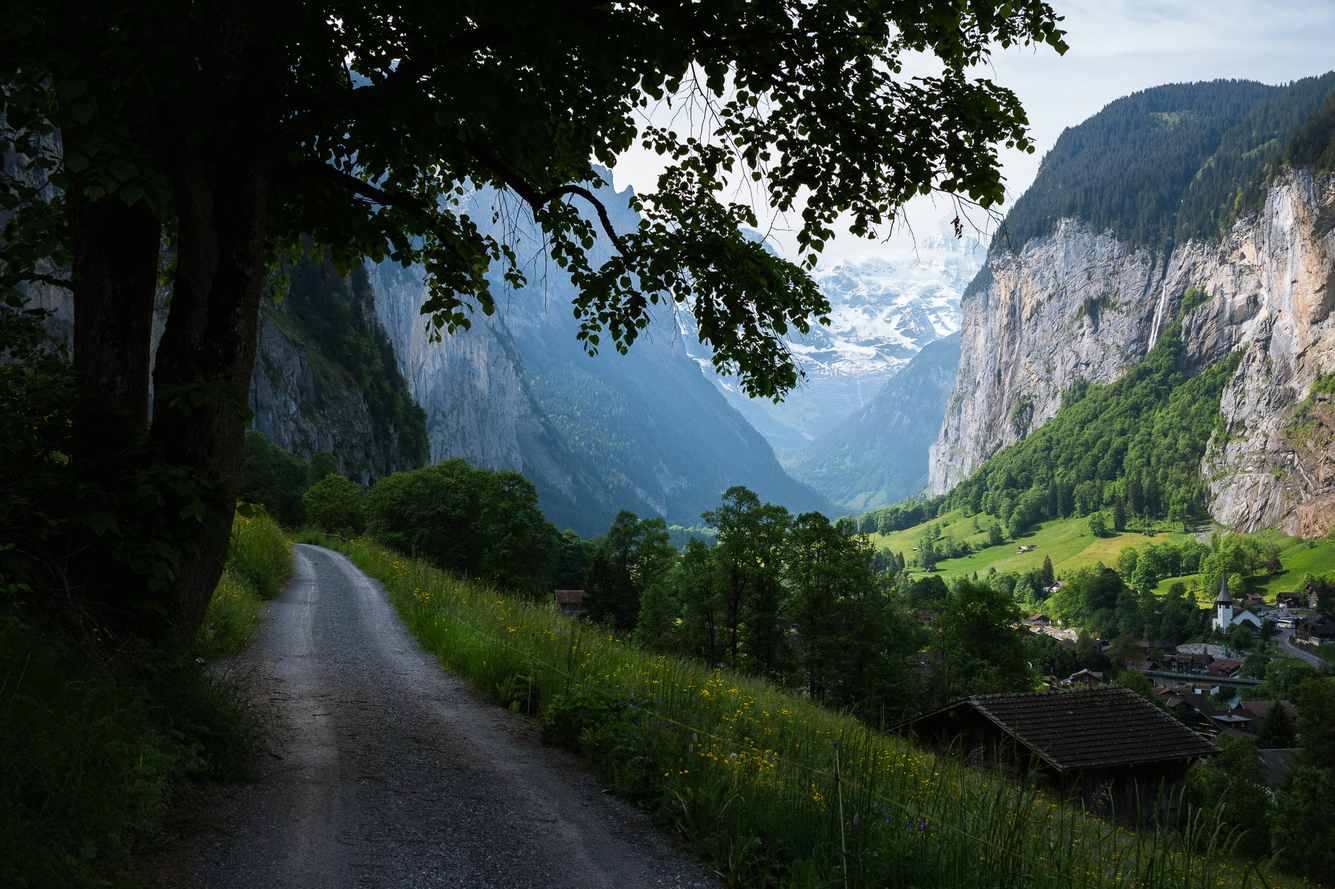
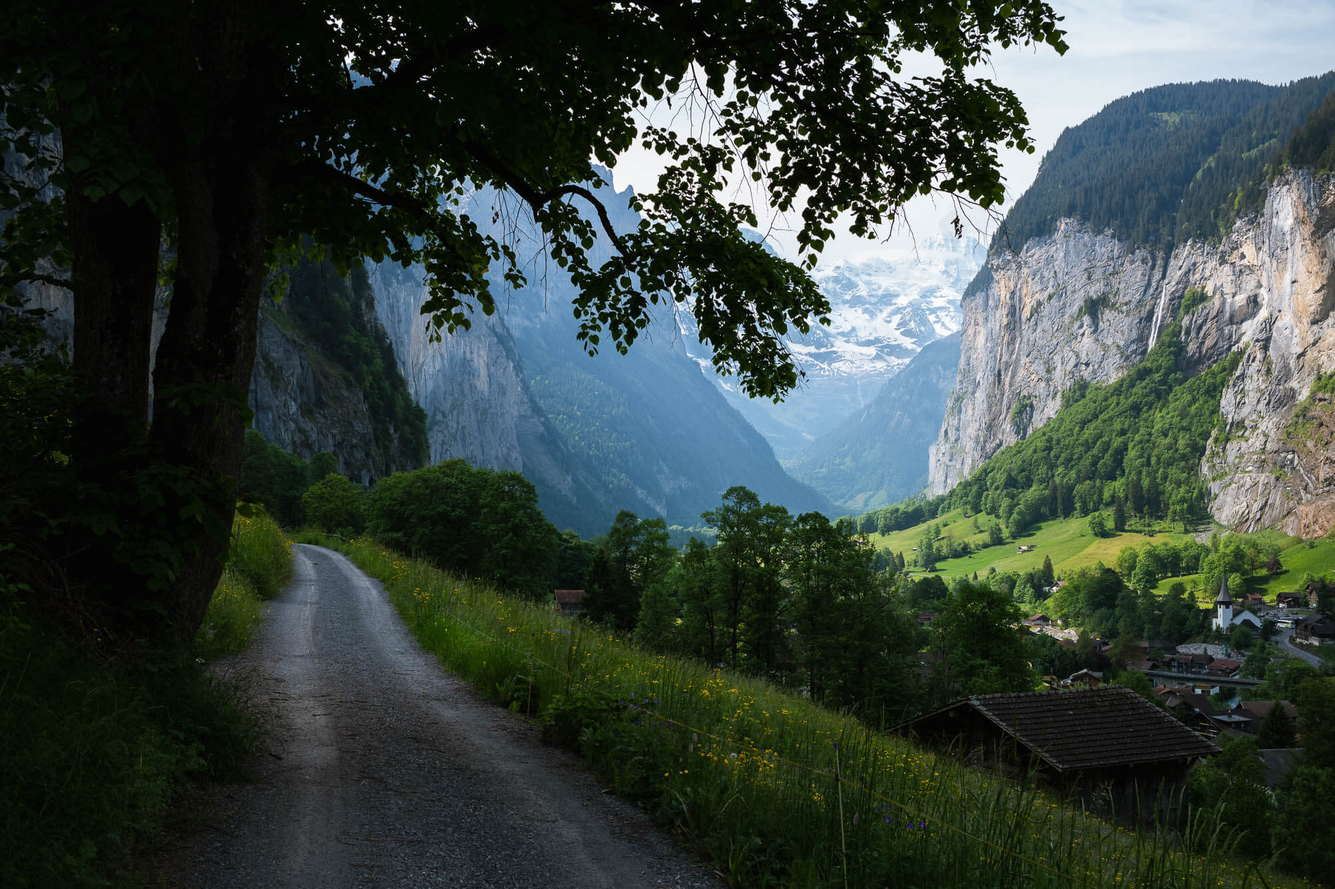
adjust image quality of europe photos

diff --git a/content/collections/a-distant-land/index.md b/content/collections/a-distant-land/index.md
@@ -4,7 +4,7 @@ location: France & Switzerland
 date: "2023-05-21"
 backgroundColor: "#7A93AC"
 hero: ../../images/photography/europe-2023/europe-46.jpg
-heroAlt: Lauterbrunnen Valley
+heroAlt: Lauterbrunnen Valley, Switzerland
 photos: ../../galleries/europe-2023.yaml
 ---
 
